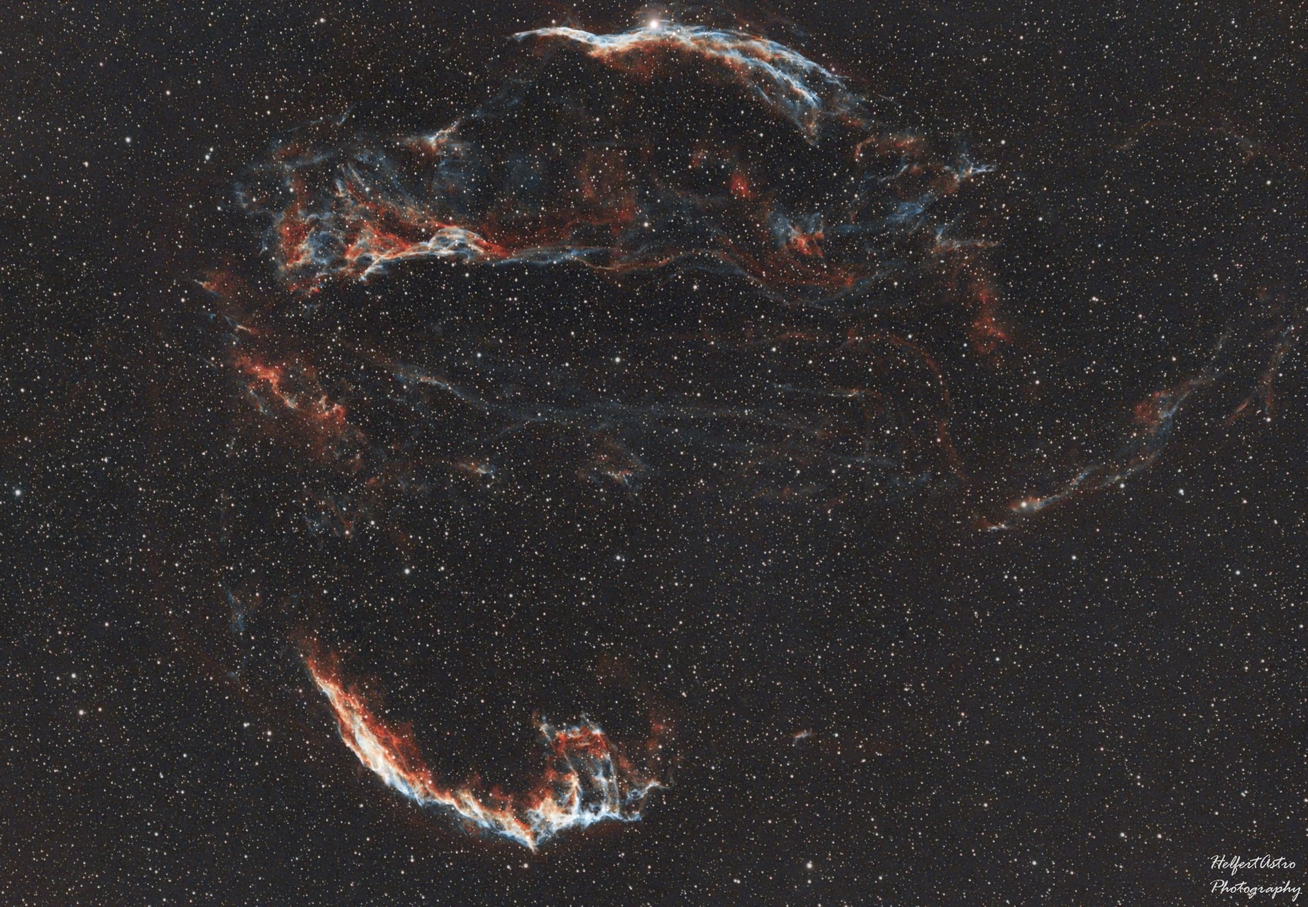
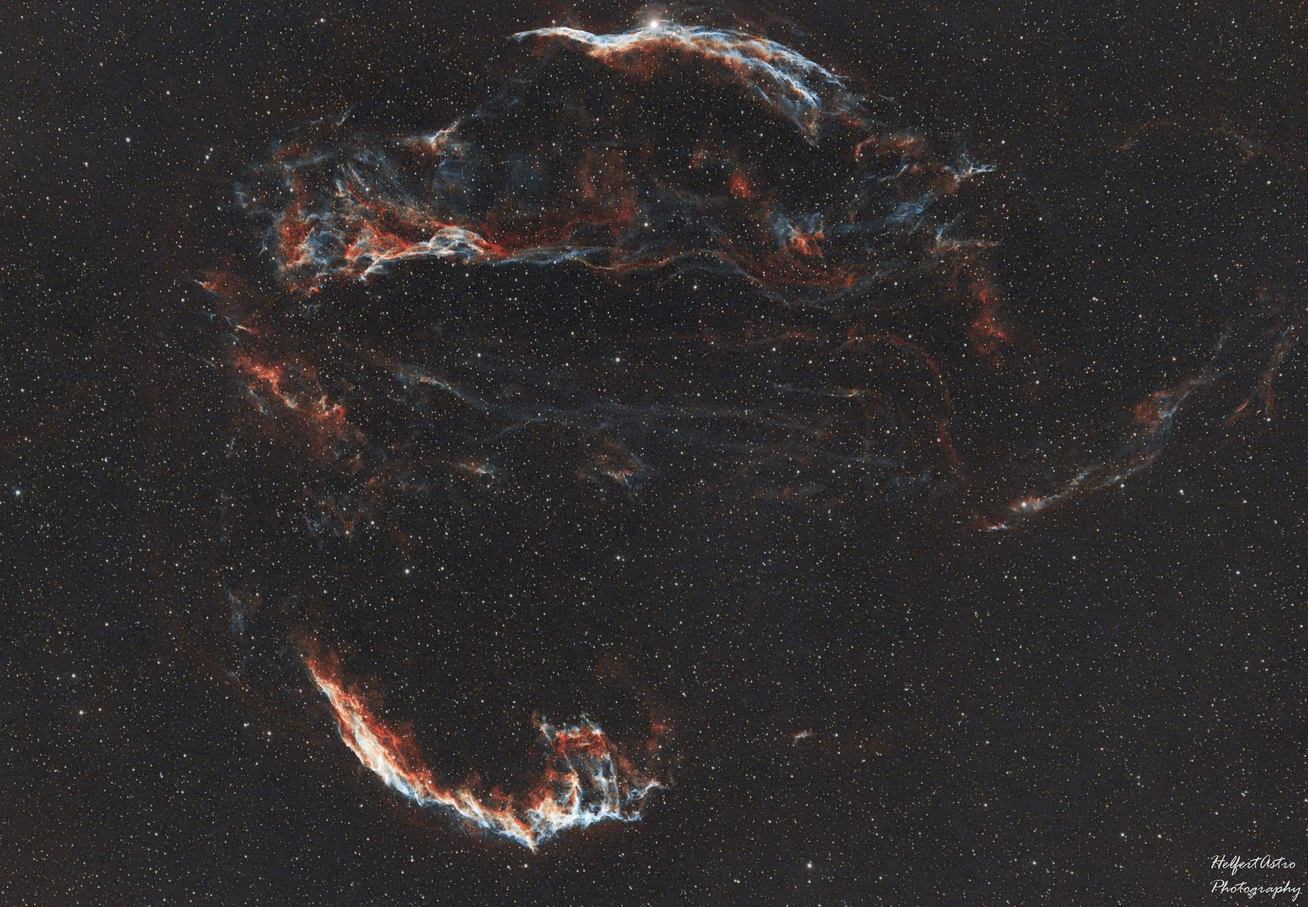
Sharpened pics, added pacman picture still need page

diff --git a/TargetPages/NGC7822.html b/TargetPages/NGC7822.html
@@ -38,10 +38,10 @@
     <header style="max-height: 150px;">
       <nav>
 <ul class="navbar" style="padding-left: 0%;margin: auto;justify-content: space-around;">    
-        <li><a href="index.html" >Home</a></li>
-          <li><a href="Gallery.html" >Gallery</a></li>
-          <li><a href="localConditions.html">Local Conditions</a></li>
-          <li><a href="equipment.html">Equipment</a></li>
+        <li><a href="../index.html" >Home</a></li>
+          <li><a href="../Gallery.html" >Gallery</a></li>
+          <li><a href="../localConditions.html">Local Conditions</a></li>
+          <li><a href="../equipment.html">Equipment</a></li>
         </ul>
       </nav>
     </header>      
@@ -52,10 +52,10 @@
     <h3 class="targetTitle">NGC 7822</h3>
         <div class="image-container">
     <picture>   
-        <img onclick="window.location.href='../pictures/NGC7822.png'"  src="/pictures/NGC7822.png" alt="NGC 7822" style="width: auto" class="targetPicture"/>    
+        <img onclick="window.location.href='../pictures/NGC7822.jpg'"  src="/pictures/NGC7822.jpg" alt="NGC 7822" style="width: auto" class="targetPicture"/>    
     </picture>
         <!-- Button Below the image -->
-        <a href="/pictures/Leo_triplet.png" download="NGC7822.png">
+        <a href="/pictures/NGC7822.jpg" download="NGC7822.jpg">
             <button class="download">Download</button>
         </a>    
 </div>

diff --git a/index.html b/index.html
@@ -114,6 +114,13 @@
 
       <!-- Full-width images with number and caption text -->
 
+
+      <div class="mySlides fade">
+        <a href="/TargetPages/VeilNebula.html">
+          <img src="/Pictures/PacMan_Nebula_SHO.jpg" style="width:100%;border-radius: 3%;">
+          <div class="title">The Pacman Nebula</div>
+        </a>
+      </div>
       <div class="mySlides fade">
         <a href="/TargetPages/SoulNebula.html">
           <img src="/Pictures/sho_soulnebula.jpg" style="width:100%;border-radius: 3%;">
@@ -129,12 +136,7 @@
 
         </a>
       </div>
-      <div class="mySlides fade">
-        <a href="/TargetPages/VeilNebula.html">
-          <img src="/jpgPictures/PickeringsTriangle.jpg" style="width:100%;border-radius: 3%;">
-          <div class="title">Pickering's Triangle and Eastern Veil</div>
-        </a>
-      </div>
+
 
 
       <!-- Next and previous buttons -->

diff --git a/TargetPages/LunarEclipse.html b/TargetPages/LunarEclipse.html
@@ -52,7 +52,7 @@
     <h3 class="targetTitle">Lunar Eclipse</h3>
         <div class="image-container">
     <picture>   
-        <img onclick="window.location.href='../pictures/LunarEclipsefinished-denoise'"  src="/pictures/LunarEclipsefinished-denoise.png" alt="LunarEclipse" style="width: auto" class="targetPicture"/>    
+        <img onclick="window.location.href='../Pictures/LunarEclipsefinished-denoise.png'"  src="/pictures/LunarEclipsefinished-denoise.png" alt="LunarEclipse" style="width: auto" class="targetPicture"/>    
     </picture>
         <!-- Button Below the image -->
         <a href="/pictures/LunarEclipsefinished-denoise.png" download="LunarEclipse.png">
